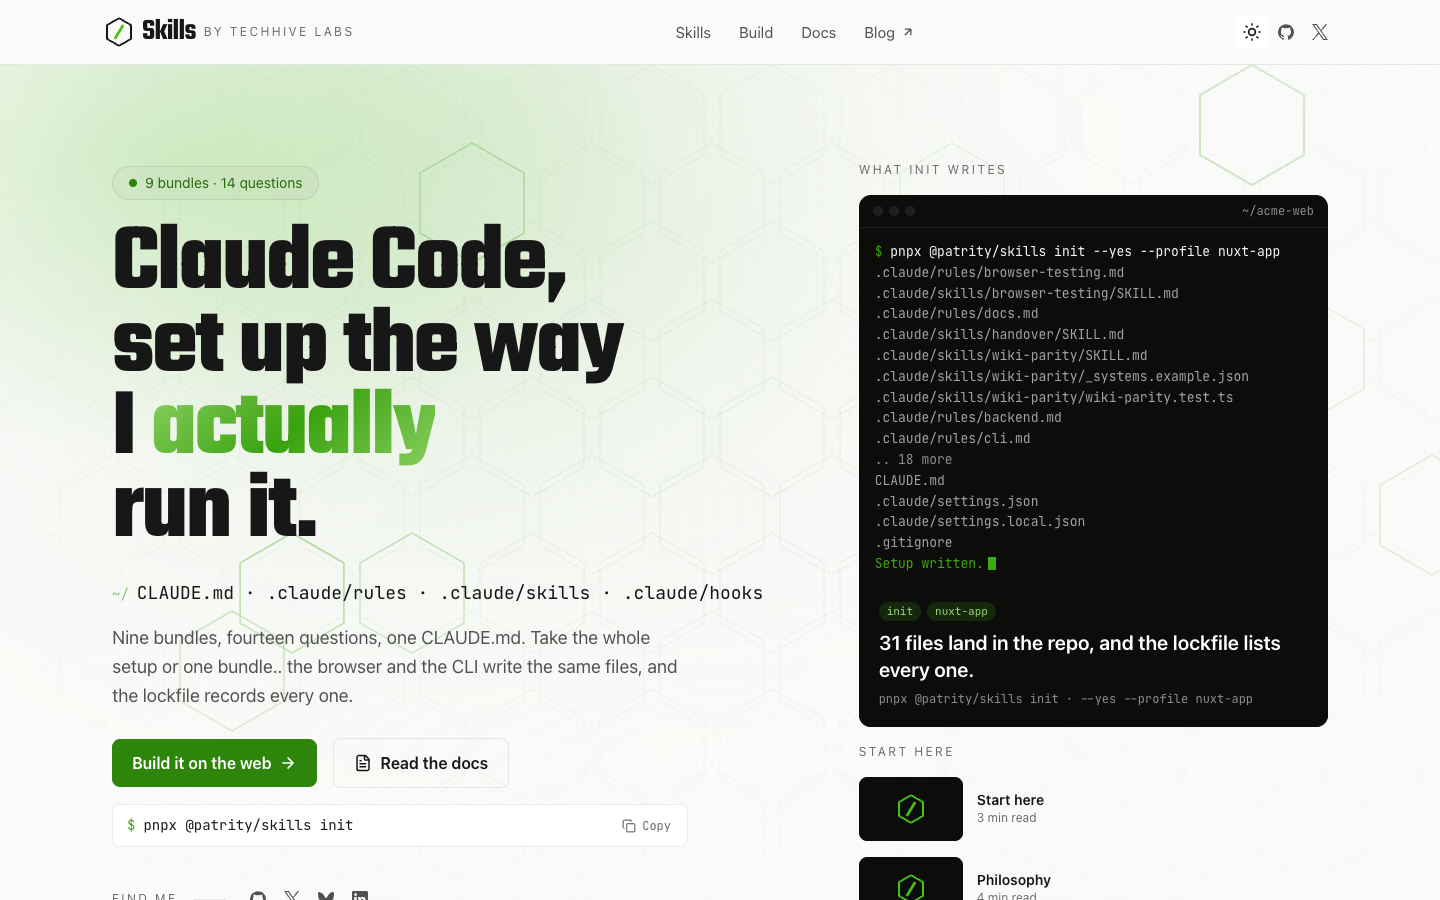
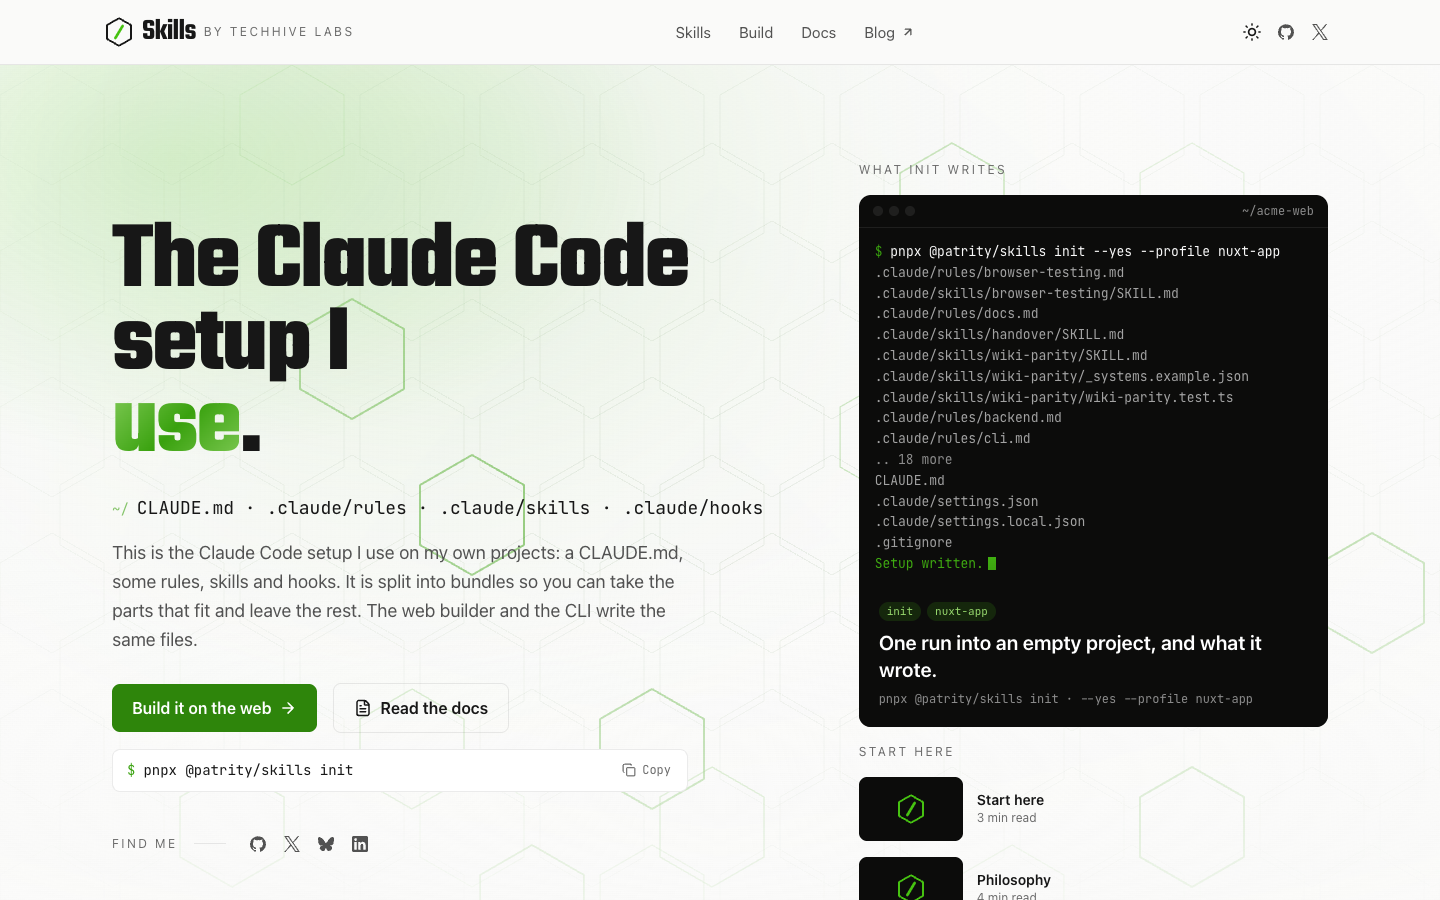
docs: the H1 says what it is; copy nits from review
The hero headline is now "The Claude Code setup I use." over three Teko
lines, with `use` carrying the gradient accent, and the page title, the
og:image title and the site-wide title fallback say the same thing. The
OG card title is 27 characters, well inside the 42-character budget, so
it round-trips without an ellipsis.

Also: philosophy says the workflow process is "not mine to begin with";
start-here spells the follow-up questions out as three "say X and it asks
Y" clauses and closes the Superpowers section on "you can skip it"; the
README screenshot is re-shot from the built server at 1440x900 in light
mode.

diff --git a/test/e2e/site.test.ts b/test/e2e/site.test.ts
@@ -440,7 +440,7 @@ describe('page meta', () => {
   }
 
   const TITLES: Record<string, string> = {
-    '/': 'The Claude Code setup I actually run · Skills',
+    '/': 'The Claude Code setup I use · Skills',
     '/skills': 'All skills · Skills',
     '/skill/demo': 'Demo · Skills',
     '/build': 'Build your setup · Skills',
@@ -466,7 +466,7 @@ describe('page meta', () => {
   // fitOgTitle() cuts the card's title at 42 characters, so a title carrying the site name
   // twice comes back with an ellipsis. The card draws the wordmark already.
   it('draws each card title whole, without the site suffix', async () => {
-    expect(ogCardTitle(await (await fetch('/')).text())).toBe('The Claude Code setup I actually run')
+    expect(ogCardTitle(await (await fetch('/')).text())).toBe('The Claude Code setup I use')
     expect(ogCardTitle(await (await fetch('/skill/demo')).text())).toBe('Demo')
     expect(ogCardTitle(await (await fetch('/docs/start-here')).text())).toBe('Start here')
   })

diff --git a/app/pages/index.vue b/app/pages/index.vue
@@ -19,10 +19,10 @@ useSiteSeo({
   // The app-level titleTemplate appends " · Skills". A shared link carries no template, so
   // the og:title spells the site out; the card itself already draws the wordmark, so it
   // takes the bare title rather than a suffixed one that would not fit.
-  title: 'The Claude Code setup I actually run',
+  title: 'The Claude Code setup I use',
   description,
-  ogTitle: 'The Claude Code setup I actually run · Skills',
-  ogImageTitle: 'The Claude Code setup I actually run'
+  ogTitle: 'The Claude Code setup I use · Skills',
+  ogImageTitle: 'The Claude Code setup I use'
 })
 </script>
 

diff --git a/app/components/home/HeroTerminal.vue b/app/components/home/HeroTerminal.vue
@@ -141,10 +141,9 @@ onBeforeUnmount(() => {
       <!-- Identity column. -->
       <div class="lg:col-span-7 max-w-3xl">
         <h1 class="font-teko font-bold text-5xl lg:text-[6rem] leading-[.86] tracking-[-0.025em] text-default">
-          Claude Code,<br>
-          set up the way<br>
-          I <span class="gradient-text">actually</span><br>
-          run it.
+          The Claude Code<br>
+          setup I<br>
+          <span class="gradient-text">use</span>.
         </h1>
 
         <p class="flex items-baseline gap-2 mt-6 font-mono">

diff --git a/test/unit/og-title.test.ts b/test/unit/og-title.test.ts
@@ -2,7 +2,7 @@ import { describe, expect, it } from 'vitest'
 import { fitOgTitle } from '../../shared/utils/og'
 
 const SHORT = 'Nuxt bundle, ready' // 18 chars
-const LONG = 'The Claude Code setup I actually run, as bundles you can take one at a time' // 74 chars
+const LONG = 'The Claude Code setup I use, as bundles you can take one at a time' // 66 chars
 
 describe('fitOgTitle', () => {
   it('leaves a title that already fits alone', () => {

diff --git a/app/app.vue b/app/app.vue
@@ -15,7 +15,7 @@ const canonical = computed(() => {
 })
 
 useHead({
-  titleTemplate: title => (title ? `${title} · Skills` : 'Skills · the Claude Code setup I actually run'),
+  titleTemplate: title => (title ? `${title} · Skills` : 'Skills · the Claude Code setup I use'),
   htmlAttrs: { lang: 'en' },
   link: [
     { rel: 'canonical', href: canonical },

diff --git a/content/docs/philosophy.md b/content/docs/philosophy.md
@@ -40,4 +40,4 @@ Two answers turn parts of my own habits on and off, because they are the parts m
 
 The `memory` axis wires the [MyMind](https://github.com/Patrity/mymind) MCP server: search before answering from recollection, mirror docs into it, keep tasks there. It is my own memory server, and it is useful to me across sessions and useless to you unless you run it, so it is a question and it is off by default.
 
-The `workflow` axis sets how much process a change goes through. That process is not mine either. It comes from [Superpowers](https://github.com/obra/superpowers), obra's plugin, and the steps are its skills: `brainstorming`, `writing-plans`, `subagent-driven-development`, `test-driven-development`, and `requesting-code-review` for the two-stage review. `full` runs the lot: brainstorm, a design spec, an implementation plan, a subagent-driven build under TDD, then the review. `lightweight` keeps a short spec in chat and TDD where practical, with no plan documents. `none` leaves Claude to work the way it would anyway. If you answer `full` or `lightweight`, install the plugin as well: [Start here](/docs/start-here) has the command, and the [plugin page](https://claude.com/plugins/superpowers) lists everything in it.
+The `workflow` axis sets how much process a change goes through. That process is not mine to begin with. It comes from [Superpowers](https://github.com/obra/superpowers), obra's plugin, and the steps are its skills: `brainstorming`, `writing-plans`, `subagent-driven-development`, `test-driven-development`, and `requesting-code-review` for the two-stage review. `full` runs the lot: brainstorm, a design spec, an implementation plan, a subagent-driven build under TDD, then the review. `lightweight` keeps a short spec in chat and TDD where practical, with no plan documents. `none` leaves Claude to work the way it would anyway. If you answer `full` or `lightweight`, install the plugin as well: [Start here](/docs/start-here) has the command, and the [plugin page](https://claude.com/plugins/superpowers) lists everything in it.

diff --git a/content/docs/start-here.md b/content/docs/start-here.md
@@ -17,11 +17,11 @@ That is the official marketplace. obra's own marketplace works too:
 /plugin install superpowers@superpowers-marketplace
 ```
 
-The [plugin page](https://claude.com/plugins/superpowers) lists what is in it. Answer `none` to the workflow question and none of this matters.
+The [plugin page](https://claude.com/plugins/superpowers) lists what is in it. Answer `none` to the workflow question and you can skip it.
 
 ## 1. Answer the questions in a browser
 
-Open [the builder](/build). Pick a preset (`nuxt-app`, `library`, `docs-only`, or Custom), name the project, and work down the list. Some of the questions only appear once an earlier answer calls for them: a monorepo is asked where the app directory lives, browser validation is asked whether the app has a login, and a domain Claude must not guess about is asked for its name. The right pane composes the `CLAUDE.md` while you answer, and the Files tab lists everything the zip will hold.
+Open [the builder](/build). Pick a preset (`nuxt-app`, `library`, `docs-only`, or Custom), name the project, and work down the list. Some of the questions only appear once an earlier answer calls for them: say monorepo and it asks where the app directory lives; say you validate in a browser and it asks whether the app has a login; say there is a domain Claude must not guess about and it asks for its name. The right pane composes the `CLAUDE.md` while you answer, and the Files tab lists everything the zip will hold.
 
 **Download setup** gives you a zip of exactly that:
 

diff --git a/docs/voice.md b/docs/voice.md
@@ -60,8 +60,8 @@ described at the bottom, as background, not as a target for this repo.
    - After: "I read the file before I trust it, which is why every bundle page shows the files."
 9. **Do keep the failure in.** The thing that bit me stays on the page, stated plainly, because it
    is the reason a rule exists. It just does not get a drum roll.
-10. **Do keep my own name out of the claim.** No "the setup I actually run" energy in body copy.
-    The pages are about the files, not about me being right.
+10. **Do keep the claim off myself.** "The Claude Code setup I use" is as far as it goes. The
+    pages are about the files, not about me being right about them.
 11. **Swearing stays out.** Not even quoted. That is the blog.
 
 ## Sample rewrites
